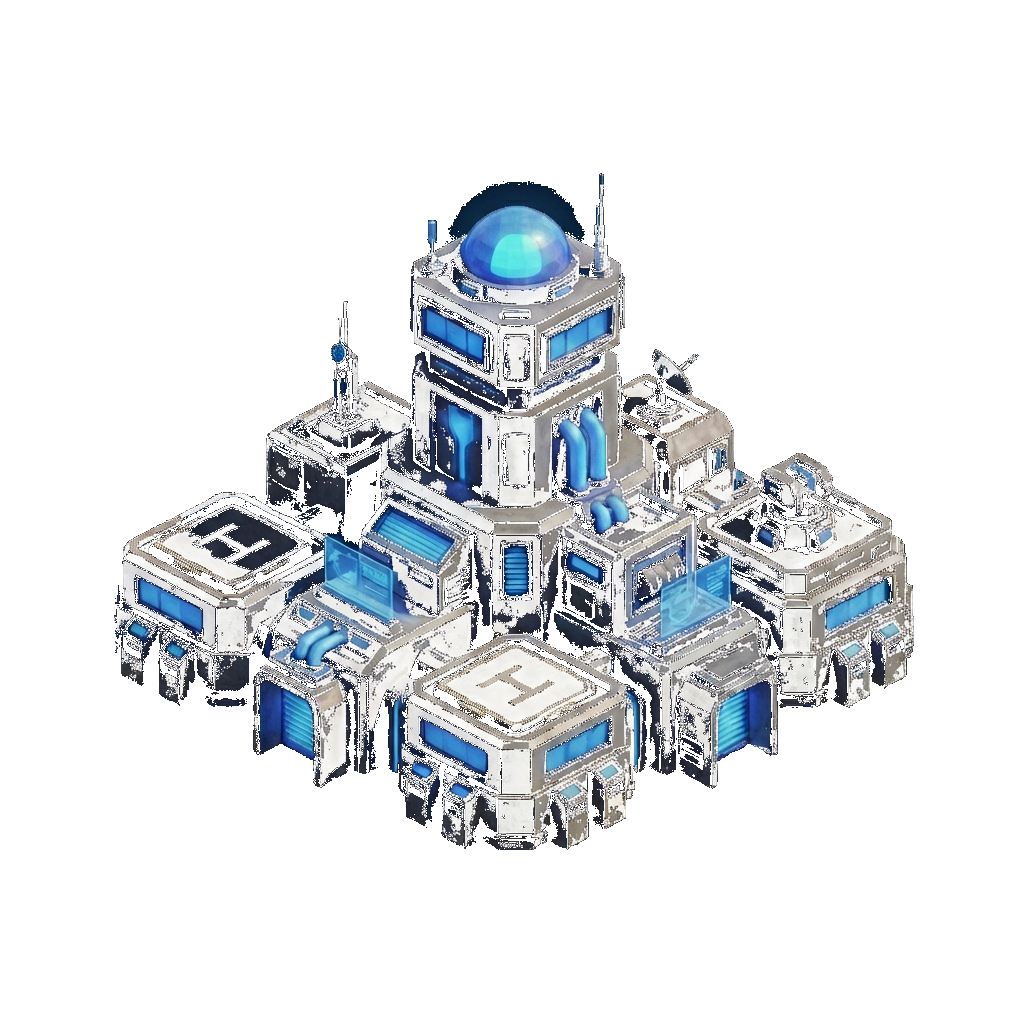
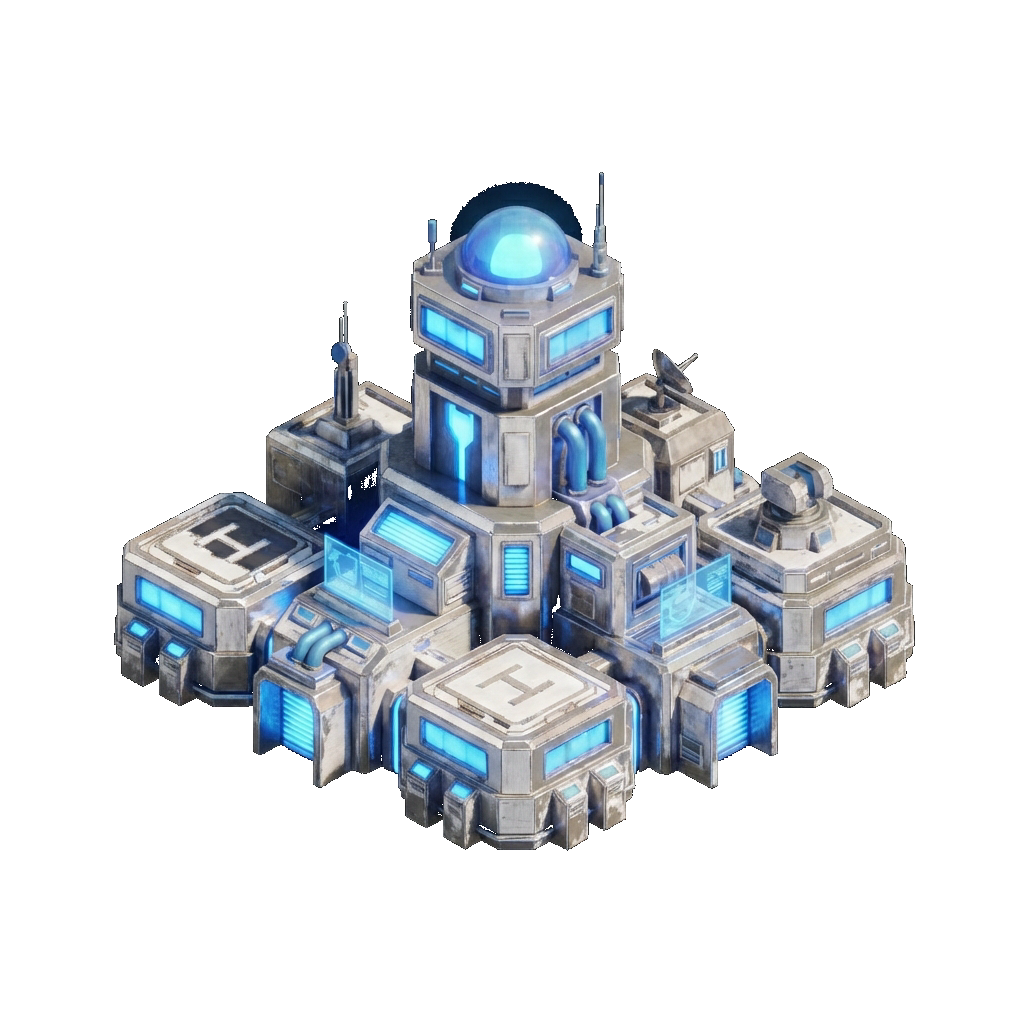
feat: standardize building sprites and dynamic db loading

Changed region(s): [[0.0938, 0.1875, 0.9062, 0.8438]]

diff --git a/terra-client/src/components/map/InternalBaseMap.tsx b/terra-client/src/components/map/InternalBaseMap.tsx
@@ -33,6 +33,7 @@ interface BuildingType {
     code: string;
     name: string;
     construction_cost: { gold: number; gem: number };
+    image?: string;
 }
 
 export default function InternalBaseMap({ onClose, gridSize = 10 }: InternalBaseMapProps) {
@@ -253,27 +254,83 @@ export default function InternalBaseMap({ onClose, gridSize = 10 }: InternalBase
 
                                     {/* Building */}
                                     {tile.building && (
-                                        <div className="absolute bottom-[25%] left-[0%] w-[100%] h-[150%] z-10 pointer-events-none origin-bottom flex items-end justify-center">
-                                            {/* Sprite Image */}
-                                            <img
-                                                src={`/assets/buildings/${tile.building === 'COMMAND_CENTER' ? 'COMMAND_CENTER.png' :
-                                                    tile.building.includes('WALL') ? 'WALL.png' :
-                                                        tile.building.includes('TURRET') ? 'TURRET.png' :
-                                                            tile.building.includes('POWER') ? 'POWER_PLANT.png' :
-                                                                tile.building.includes('FACTORY') ? 'FACTORY.png' :
-                                                                    'COMMAND_CENTER.png' // Fallback
-                                                    }`}
-                                                alt={tile.building}
-                                                className="w-full h-auto object-contain drop-shadow-[0_4px_4px_rgba(0,0,0,0.5)]"
-                                                style={{
-                                                    transform: `translateY(${tilt > 1 ? '-5%' : '5%'}) scale(1.5)` // Scale up sprites slightly
-                                                }}
-                                            />
+                                        <div className="absolute bottom-[12%] left-[0%] w-[100%] h-[150%] z-10 pointer-events-none origin-bottom flex items-end justify-center">
+                                            {/* Sprite Image Logic */}
+                                            {(() => {
+                                                // 1. Dynamic DB Lookup
+                                                let spriteSrc = 'COMMAND_CENTER.png';
+                                                // Standard Default Tweaks
+                                                let scale = 0.85;
+                                                let translateY = '20%';
+                                                let flipX = false;
 
-                                            {/* Building Label (Optional, maybe smaller) */}
-                                            {/* <div className="absolute bottom-0 left-0 w-full text-[6px] text-center text-white bg-black/50 px-1 overflow-hidden">
-                                                {tile.building}
-                                            </div> */}
+                                                // Lookup building info from fetched DB types
+                                                const bInfo = buildingTypes.find(b => b.code === tile.building);
+                                                if (bInfo && bInfo.image) {
+                                                    spriteSrc = bInfo.image;
+                                                    scale = 0.85;
+                                                    translateY = '20%';
+
+                                                    if (tile.building === 'COMMAND_CENTER' || (tile.building && tile.building.includes('FACTORY'))) {
+                                                        scale = 0.8;
+                                                        translateY = '25%';
+                                                    }
+                                                }
+
+                                                // 2. Overrides for Special Mechanics
+                                                if (tile.building && tile.building.includes('WALL')) {
+                                                    spriteSrc = 'WALL_STRAIGHT.png';
+                                                    scale = 1.1;
+                                                    translateY = '10%'; // Wall might need different grounding
+
+                                                    // Wall Adjacency Logic
+                                                    const x = tile.x;
+                                                    const y = tile.y;
+
+                                                    const hasWall = (dx: number, dy: number) => {
+                                                        const neighbor = grid.find(t => t.x === x + dx && t.y === y + dy);
+                                                        return neighbor && neighbor.building && neighbor.building.includes('WALL');
+                                                    };
+
+                                                    // Isometric Grid Neighbors
+                                                    const nN = hasWall(0, -1);
+                                                    const nS = hasWall(0, 1);
+                                                    const nE = hasWall(1, 0);
+                                                    const nW = hasWall(-1, 0);
+
+                                                    const isAxis1 = nN || nS;
+                                                    const isAxis2 = nE || nW;
+
+                                                    // Decision Tree
+                                                    if ((nN || nS) && (nE || nW)) {
+                                                        spriteSrc = 'WALL_CORNER.png';
+                                                        scale = 1.3;
+                                                        translateY = '10%';
+                                                    } else if (isAxis2) { // East-West
+                                                        spriteSrc = 'WALL_STRAIGHT.png';
+                                                        flipX = false; // Swapped: Don't flip for E-W (assuming sprite is E-W aligned or user prefers this)
+                                                    } else if (isAxis1) { // North-South
+                                                        spriteSrc = 'WALL_STRAIGHT.png';
+                                                        flipX = true; // Swapped: Flip for N-S
+                                                    } else {
+                                                        // Standalone
+                                                        spriteSrc = 'WALL_CORNER.png';
+                                                        scale = 0.9;
+                                                    }
+                                                }
+
+                                                // transform-origin is bottom.
+                                                const transformStyle = `translateY(${translateY}) scale(${scale}) ${flipX ? 'scaleX(-1)' : ''}`;
+
+                                                return (
+                                                    <img
+                                                        src={`/assets/buildings/${spriteSrc}`}
+                                                        alt={tile.building}
+                                                        className="w-full h-auto object-contain drop-shadow-[0_4px_4px_rgba(0,0,0,0.5)]"
+                                                        style={{ transform: transformStyle }}
+                                                    />
+                                                );
+                                            })()}
                                         </div>
                                     )}
 
@@ -320,19 +377,16 @@ export default function InternalBaseMap({ onClose, gridSize = 10 }: InternalBase
                                 key={b.code}
                                 onClick={() => setSelectedTool(b.code)}
                                 className={`aspect-square border rounded flex flex-col items-center justify-center gap-1 transition-all active:scale-95 p-1 ${selectedTool === b.code
-                                        ? 'bg-cyan-900/50 border-cyan-500 text-cyan-400 shadow-[0_0_10px_rgba(34,211,238,0.2)]'
-                                        : 'bg-slate-800 border-slate-600 hover:bg-slate-700 text-gray-400'
+                                    ? 'bg-cyan-900/50 border-cyan-500 text-cyan-400 shadow-[0_0_10px_rgba(34,211,238,0.2)]'
+                                    : 'bg-slate-800 border-slate-600 hover:bg-slate-700 text-gray-400'
                                     }`}
                                 title={`${b.name} (Cost: ${b.construction_cost.gold || 0}G)`}
                             >
                                 <img
-                                    src={`/assets/buildings/${b.code === 'COMMAND_CENTER' ? 'COMMAND_CENTER.png' :
-                                            b.code.includes('WALL') ? 'WALL.png' :
-                                                b.code.includes('TURRET') ? 'TURRET.png' :
-                                                    b.code.includes('POWER') ? 'POWER_PLANT.png' :
-                                                        b.code.includes('FACTORY') ? 'FACTORY.png' :
-                                                            'COMMAND_CENTER.png'
-                                        }`}
+                                    src={b.image ? `/assets/buildings/${b.image}` : '/assets/buildings/no_image.png'}
+                                    onError={(e) => {
+                                        (e.target as HTMLImageElement).src = '/assets/buildings/no_image.png';
+                                    }}
                                     alt={b.name}
                                     className="w-8 h-8 object-contain"
                                 />

diff --git a/terra-server/seed_buildings.js b/terra-server/seed_buildings.js
@@ -1,0 +1,86 @@
+
+const db = require('./database');
+
+const entries = [
+    {
+        code: 'WALL',
+        name: '방벽',
+        description: '적의 공격을 막아내는 방어 시설.',
+        tier: 1,
+        category: 'DEFENSE',
+        construction_cost: JSON.stringify({ gold: 50, ore: 10 }),
+        maintenance_cost: JSON.stringify({ gold: 1 }),
+        production_rate: 0.0,
+        production_type: null,
+        storage_volume: 0.0,
+        is_territory_center: 0,
+        territory_radius: 0.0,
+        prerequisites: JSON.stringify(['COMMAND_CENTER']),
+        max_hp: 500,
+        image: 'WALL.png'
+    },
+    {
+        code: 'TURRET',
+        name: '포탑',
+        description: '접근하는 적을 자동으로 공격하는 방어 타워.',
+        tier: 2,
+        category: 'DEFENSE',
+        construction_cost: JSON.stringify({ gold: 150, ore: 50 }),
+        maintenance_cost: JSON.stringify({ gold: 5, energy: 2 }),
+        production_rate: 0.0,
+        production_type: null,
+        storage_volume: 0.0,
+        is_territory_center: 0,
+        territory_radius: 2.0,
+        prerequisites: JSON.stringify(['BARRACKS']),
+        max_hp: 300,
+        image: 'TURRET.png'
+    },
+    {
+        code: 'POWER_PLANT',
+        name: '발전소',
+        description: '에너지를 생산하여 기지에 전력을 공급합니다.',
+        tier: 2,
+        category: 'INDUSTRIAL',
+        construction_cost: JSON.stringify({ gold: 300, ore: 100 }),
+        maintenance_cost: JSON.stringify({ gold: 10 }),
+        production_rate: 20.0,
+        production_type: 'ENERGY',
+        storage_volume: 100.0,
+        is_territory_center: 0,
+        territory_radius: 0.0,
+        prerequisites: JSON.stringify(['FACTORY']),
+        max_hp: 200,
+        image: 'POWER_PLANT.png'
+    }
+];
+
+// Check if image column exists, if not, ignore it (backward compatibility)
+// But based on previous checks, it should exist.
+const insertStmt = db.prepare(`
+    INSERT INTO building_types (
+        code, name, description, tier, category, construction_cost, maintenance_cost,
+        production_rate, production_type, storage_volume,
+        is_territory_center, territory_radius, prerequisites, max_hp, image
+    ) VALUES (
+        @code, @name, @description, @tier, @category, @construction_cost, @maintenance_cost,
+        @production_rate, @production_type, @storage_volume,
+        @is_territory_center, @territory_radius, @prerequisites, @max_hp, @image
+    )
+`);
+
+const checkStmt = db.prepare('SELECT id FROM building_types WHERE code = ?');
+
+db.transaction(() => {
+    for (const entry of entries) {
+        const existing = checkStmt.get(entry.code);
+        if (!existing) {
+            console.log(`Inserting missing building: ${entry.code}`);
+            insertStmt.run(entry);
+        } else {
+            console.log(`Building already exists: ${entry.code}`);
+        }
+    }
+})();
+
+console.log('Seeding complete.');

diff --git a/terra-server/clean_sprite.js b/terra-server/clean_sprite.js
@@ -5,9 +5,14 @@ const jpeg = require('jpeg-js');
 const path = require('path');
 
 const targetFile = process.argv[2];
+// Optional args: node clean_sprite.js <path> <R> <G> <B> <tolerance>
+const targetR = process.argv[3] ? parseInt(process.argv[3]) : 255;
+const targetG = process.argv[4] ? parseInt(process.argv[4]) : 0;
+const targetB = process.argv[5] ? parseInt(process.argv[5]) : 255;
+const toleranceVal = process.argv[6] ? parseInt(process.argv[6]) : 40;
 
 if (!targetFile) {
-    console.error("Usage: node clean_sprite.js <path_to_image>");
+    console.error("Usage: node clean_sprite.js <path_to_image> [R] [G] [B] [tolerance]");
     process.exit(1);
 }
 
@@ -16,7 +21,6 @@ const fileBuffer = fs.readFileSync(absolutePath);
 
 // Detect type
 let rawData; // { width, height, data }
-let isJpeg = false;
 
 try {
     // Try parsing as PNG first
@@ -27,7 +31,6 @@ try {
     try {
         const jpegData = jpeg.decode(fileBuffer, { useTArray: true });
         rawData = { width: jpegData.width, height: jpegData.height, data: jpegData.data };
-        isJpeg = true;
         console.log("Detected JPEG format. Converting to PNG...");
     } catch (e2) {
         console.error("Failed to decode image as PNG or JPEG.");
@@ -41,13 +44,7 @@ const newPng = new PNG({
     height: rawData.height
 });
 
-// Process pixels
-// Custom Target: Magenta Background (Standard Chroma Key)
-const bgR = 255;
-const bgG = 0;
-const bgB = 255;
-
-console.log(`Background Color detected (Hardcoded Magenta): R=${bgR}, G=${bgG}, B=${bgB}`);
+console.log(`Targeting Background Color: R=${targetR}, G=${targetG}, B=${targetB}, Tolerance=${toleranceVal}`);
 
 let replacedCount = 0;
 const totalPixels = rawData.width * rawData.height;
@@ -61,7 +58,7 @@ for (let y = 0; y < rawData.height; y++) {
         const b = rawData.data[idx + 2];
         const a = rawData.data[idx + 3] !== undefined ? rawData.data[idx + 3] : 255;
 
-        // If already transparent, keep it transparent
+        // If already transparent, preserve it
         if (a < 255) {
             newPng.data[idx] = r;
             newPng.data[idx + 1] = g;
@@ -70,15 +67,13 @@ for (let y = 0; y < rawData.height; y++) {
             continue;
         }
 
-        // Magenta is very distinct, so we use a lower tolerance
-        const tolerance = 100;
         const dist = Math.sqrt(
-            Math.pow(r - bgR, 2) +
-            Math.pow(g - bgG, 2) +
-            Math.pow(b - bgB, 2)
+            Math.pow(r - targetR, 2) +
+            Math.pow(g - targetG, 2) +
+            Math.pow(b - targetB, 2)
         );
 
-        if (dist < tolerance) {
+        if (dist < toleranceVal) {
             newPng.data[idx] = 0;
             newPng.data[idx + 1] = 0;
             newPng.data[idx + 2] = 0;
